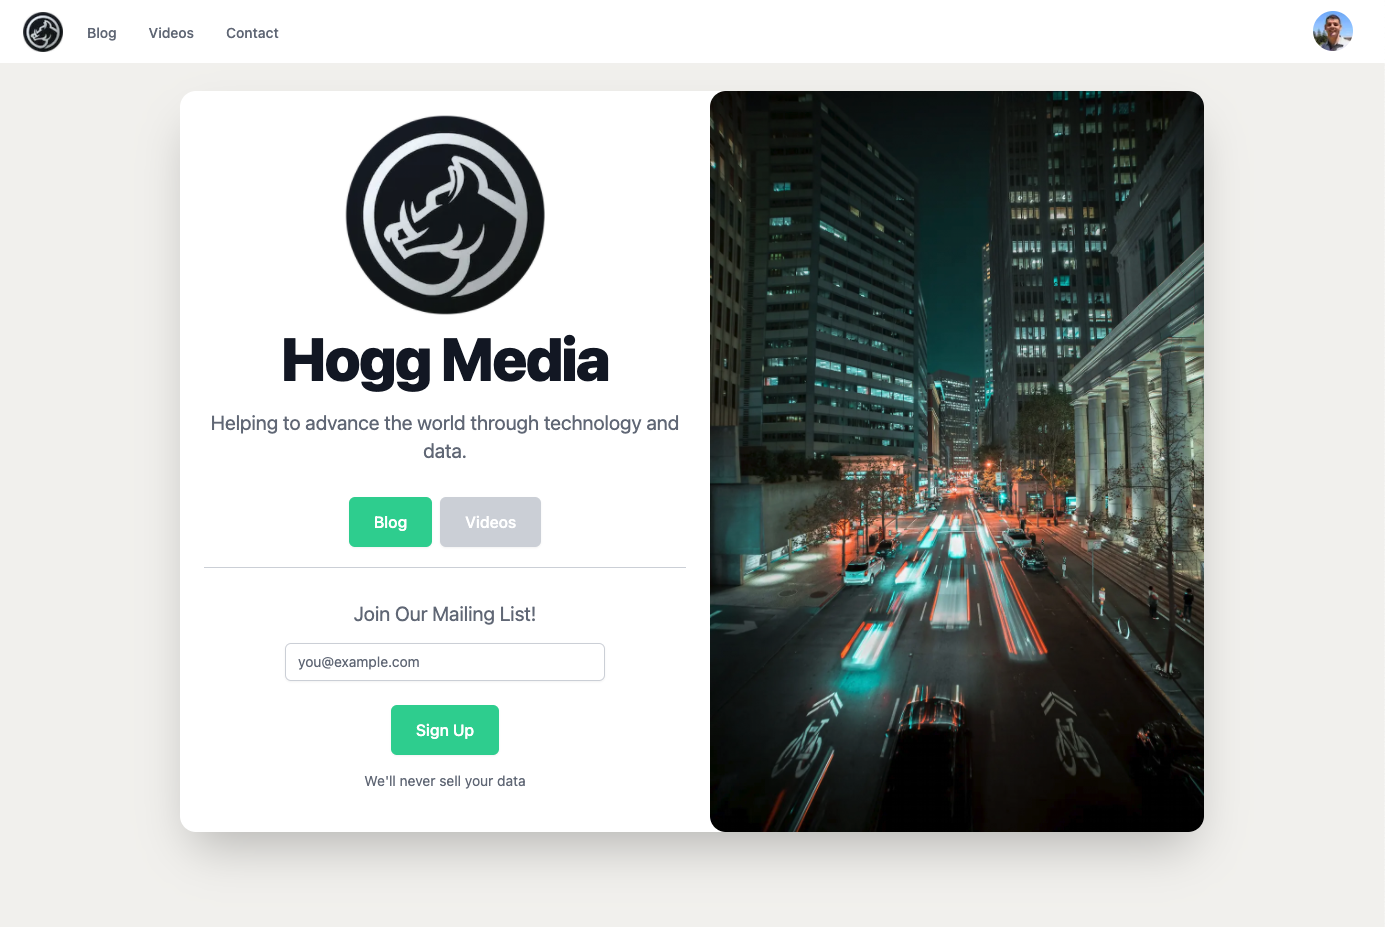
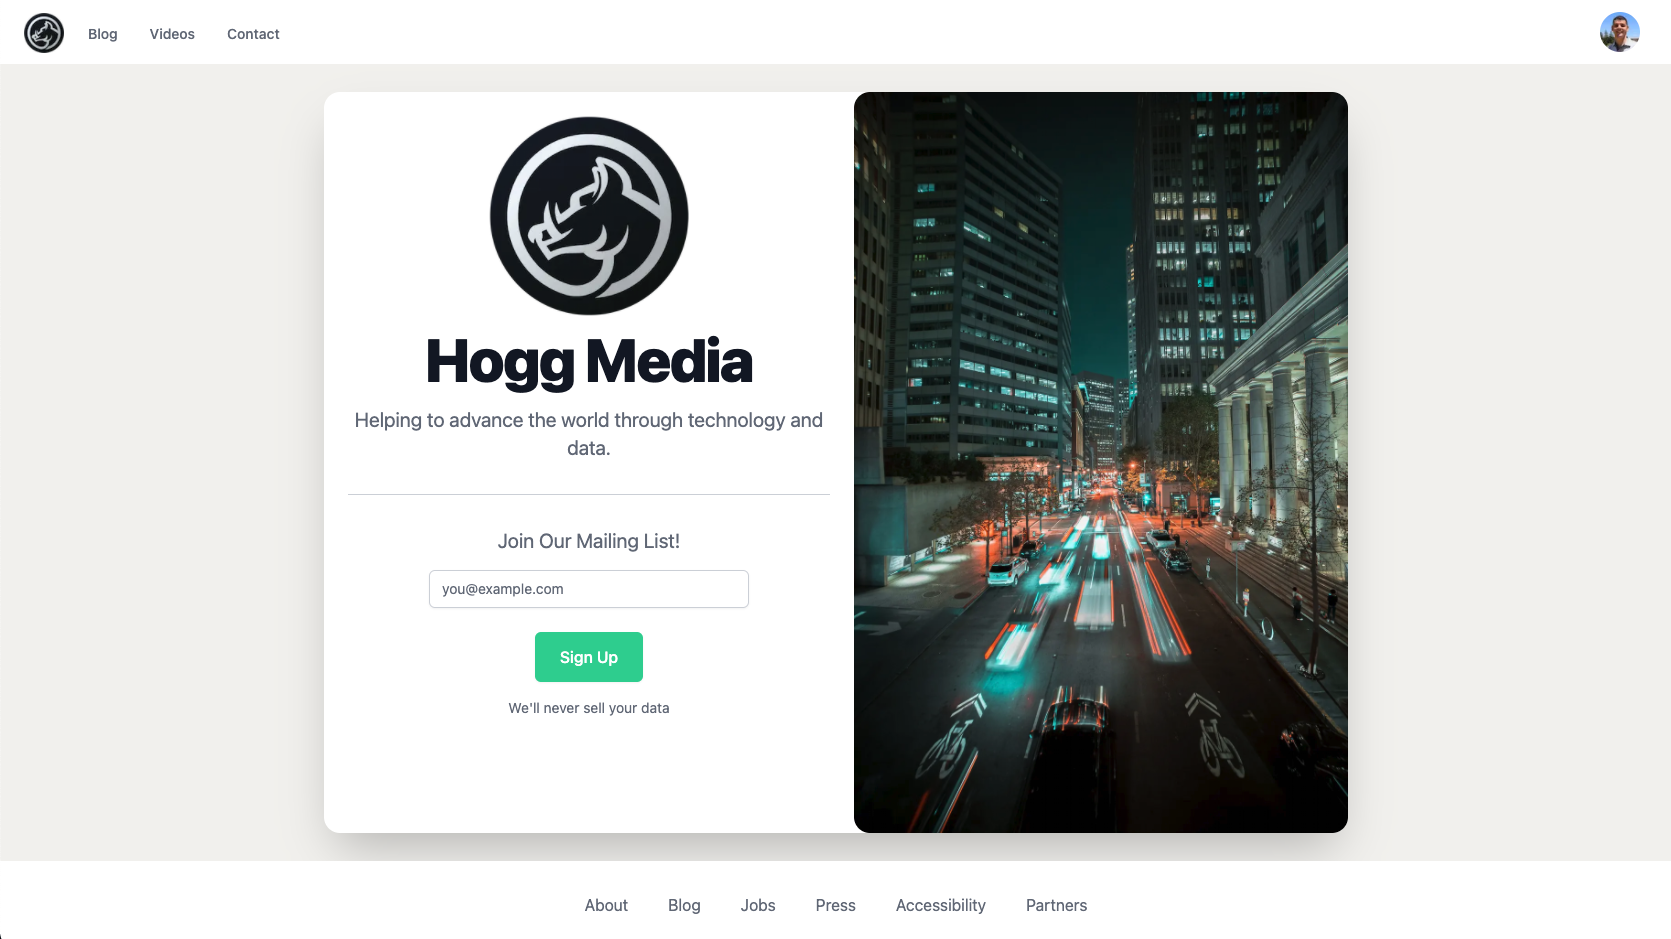
adds footer, style hero

diff --git a/components/Footer.tsx b/components/Footer.tsx
@@ -1,0 +1,113 @@
+/* This example requires Tailwind CSS v2.0+ */
+const navigation = {
+  main: [
+    { name: 'About', href: '#' },
+    { name: 'Blog', href: '#' },
+    { name: 'Jobs', href: '#' },
+    { name: 'Press', href: '#' },
+    { name: 'Accessibility', href: '#' },
+    { name: 'Partners', href: '#' },
+  ],
+  social: [
+    {
+      name: 'Facebook',
+      href: '#',
+      icon: (props) => (
+        <svg fill='currentColor' viewBox='0 0 24 24' {...props}>
+          <path
+            fillRule='evenodd'
+            d='M22 12c0-5.523-4.477-10-10-10S2 6.477 2 12c0 4.991 3.657 9.128 8.438 9.878v-6.987h-2.54V12h2.54V9.797c0-2.506 1.492-3.89 3.777-3.89 1.094 0 2.238.195 2.238.195v2.46h-1.26c-1.243 0-1.63.771-1.63 1.562V12h2.773l-.443 2.89h-2.33v6.988C18.343 21.128 22 16.991 22 12z'
+            clipRule='evenodd'
+          />
+        </svg>
+      ),
+    },
+    {
+      name: 'Instagram',
+      href: '#',
+      icon: (props) => (
+        <svg fill='currentColor' viewBox='0 0 24 24' {...props}>
+          <path
+            fillRule='evenodd'
+            d='M12.315 2c2.43 0 2.784.013 3.808.06 1.064.049 1.791.218 2.427.465a4.902 4.902 0 011.772 1.153 4.902 4.902 0 011.153 1.772c.247.636.416 1.363.465 2.427.048 1.067.06 1.407.06 4.123v.08c0 2.643-.012 2.987-.06 4.043-.049 1.064-.218 1.791-.465 2.427a4.902 4.902 0 01-1.153 1.772 4.902 4.902 0 01-1.772 1.153c-.636.247-1.363.416-2.427.465-1.067.048-1.407.06-4.123.06h-.08c-2.643 0-2.987-.012-4.043-.06-1.064-.049-1.791-.218-2.427-.465a4.902 4.902 0 01-1.772-1.153 4.902 4.902 0 01-1.153-1.772c-.247-.636-.416-1.363-.465-2.427-.047-1.024-.06-1.379-.06-3.808v-.63c0-2.43.013-2.784.06-3.808.049-1.064.218-1.791.465-2.427a4.902 4.902 0 011.153-1.772A4.902 4.902 0 015.45 2.525c.636-.247 1.363-.416 2.427-.465C8.901 2.013 9.256 2 11.685 2h.63zm-.081 1.802h-.468c-2.456 0-2.784.011-3.807.058-.975.045-1.504.207-1.857.344-.467.182-.8.398-1.15.748-.35.35-.566.683-.748 1.15-.137.353-.3.882-.344 1.857-.047 1.023-.058 1.351-.058 3.807v.468c0 2.456.011 2.784.058 3.807.045.975.207 1.504.344 1.857.182.466.399.8.748 1.15.35.35.683.566 1.15.748.353.137.882.3 1.857.344 1.054.048 1.37.058 4.041.058h.08c2.597 0 2.917-.01 3.96-.058.976-.045 1.505-.207 1.858-.344.466-.182.8-.398 1.15-.748.35-.35.566-.683.748-1.15.137-.353.3-.882.344-1.857.048-1.055.058-1.37.058-4.041v-.08c0-2.597-.01-2.917-.058-3.96-.045-.976-.207-1.505-.344-1.858a3.097 3.097 0 00-.748-1.15 3.098 3.098 0 00-1.15-.748c-.353-.137-.882-.3-1.857-.344-1.023-.047-1.351-.058-3.807-.058zM12 6.865a5.135 5.135 0 110 10.27 5.135 5.135 0 010-10.27zm0 1.802a3.333 3.333 0 100 6.666 3.333 3.333 0 000-6.666zm5.338-3.205a1.2 1.2 0 110 2.4 1.2 1.2 0 010-2.4z'
+            clipRule='evenodd'
+          />
+        </svg>
+      ),
+    },
+    {
+      name: 'Twitter',
+      href: '#',
+      icon: (props) => (
+        <svg fill='currentColor' viewBox='0 0 24 24' {...props}>
+          <path d='M8.29 20.251c7.547 0 11.675-6.253 11.675-11.675 0-.178 0-.355-.012-.53A8.348 8.348 0 0022 5.92a8.19 8.19 0 01-2.357.646 4.118 4.118 0 001.804-2.27 8.224 8.224 0 01-2.605.996 4.107 4.107 0 00-6.993 3.743 11.65 11.65 0 01-8.457-4.287 4.106 4.106 0 001.27 5.477A4.072 4.072 0 012.8 9.713v.052a4.105 4.105 0 003.292 4.022 4.095 4.095 0 01-1.853.07 4.108 4.108 0 003.834 2.85A8.233 8.233 0 012 18.407a11.616 11.616 0 006.29 1.84' />
+        </svg>
+      ),
+    },
+    {
+      name: 'GitHub',
+      href: '#',
+      icon: (props) => (
+        <svg fill='currentColor' viewBox='0 0 24 24' {...props}>
+          <path
+            fillRule='evenodd'
+            d='M12 2C6.477 2 2 6.484 2 12.017c0 4.425 2.865 8.18 6.839 9.504.5.092.682-.217.682-.483 0-.237-.008-.868-.013-1.703-2.782.605-3.369-1.343-3.369-1.343-.454-1.158-1.11-1.466-1.11-1.466-.908-.62.069-.608.069-.608 1.003.07 1.531 1.032 1.531 1.032.892 1.53 2.341 1.088 2.91.832.092-.647.35-1.088.636-1.338-2.22-.253-4.555-1.113-4.555-4.951 0-1.093.39-1.988 1.029-2.688-.103-.253-.446-1.272.098-2.65 0 0 .84-.27 2.75 1.026A9.564 9.564 0 0112 6.844c.85.004 1.705.115 2.504.337 1.909-1.296 2.747-1.027 2.747-1.027.546 1.379.202 2.398.1 2.651.64.7 1.028 1.595 1.028 2.688 0 3.848-2.339 4.695-4.566 4.943.359.309.678.92.678 1.855 0 1.338-.012 2.419-.012 2.747 0 .268.18.58.688.482A10.019 10.019 0 0022 12.017C22 6.484 17.522 2 12 2z'
+            clipRule='evenodd'
+          />
+        </svg>
+      ),
+    },
+    {
+      name: 'Dribbble',
+      href: '#',
+      icon: (props) => (
+        <svg fill='currentColor' viewBox='0 0 24 24' {...props}>
+          <path
+            fillRule='evenodd'
+            d='M12 2C6.48 2 2 6.48 2 12s4.48 10 10 10c5.51 0 10-4.48 10-10S17.51 2 12 2zm6.605 4.61a8.502 8.502 0 011.93 5.314c-.281-.054-3.101-.629-5.943-.271-.065-.141-.12-.293-.184-.445a25.416 25.416 0 00-.564-1.236c3.145-1.28 4.577-3.124 4.761-3.362zM12 3.475c2.17 0 4.154.813 5.662 2.148-.152.216-1.443 1.941-4.48 3.08-1.399-2.57-2.95-4.675-3.189-5A8.687 8.687 0 0112 3.475zm-3.633.803a53.896 53.896 0 013.167 4.935c-3.992 1.063-7.517 1.04-7.896 1.04a8.581 8.581 0 014.729-5.975zM3.453 12.01v-.26c.37.01 4.512.065 8.775-1.215.25.477.477.965.694 1.453-.109.033-.228.065-.336.098-4.404 1.42-6.747 5.303-6.942 5.629a8.522 8.522 0 01-2.19-5.705zM12 20.547a8.482 8.482 0 01-5.239-1.8c.152-.315 1.888-3.656 6.703-5.337.022-.01.033-.01.054-.022a35.318 35.318 0 011.823 6.475 8.4 8.4 0 01-3.341.684zm4.761-1.465c-.086-.52-.542-3.015-1.659-6.084 2.679-.423 5.022.271 5.314.369a8.468 8.468 0 01-3.655 5.715z'
+            clipRule='evenodd'
+          />
+        </svg>
+      ),
+    },
+  ],
+}
+
+export default function Footer() {
+  return (
+    <footer className='bg-white'>
+      <div className='max-w-7xl mx-auto py-8 px-4 overflow-hidden sm:px-6 lg:px-8'>
+        <nav
+          className='-mx-5 -my-2 flex flex-wrap justify-center'
+          aria-label='Footer'
+        >
+          {navigation.main.map((item) => (
+            <div key={item.name} className='px-5 py-2'>
+              <a
+                href={item.href}
+                className='text-base text-gray-500 hover:text-gray-900'
+              >
+                {item.name}
+              </a>
+            </div>
+          ))}
+        </nav>
+        <div className='mt-8 flex justify-center space-x-6'>
+          {navigation.social.map((item) => (
+            <a
+              key={item.name}
+              href={item.href}
+              className='text-gray-400 hover:text-gray-500'
+            >
+              <span className='sr-only'>{item.name}</span>
+              <item.icon className='h-6 w-6' aria-hidden='true' />
+            </a>
+          ))}
+        </div>
+        <p className='mt-8 text-center text-base text-gray-400'>
+          &copy; 2021 Hogg Media
+        </p>
+      </div>
+    </footer>
+  )
+}

diff --git a/components/Hero.tsx b/components/Hero.tsx
@@ -10,21 +10,9 @@ const Hero = () => {
         <h1 className='mt-2 text-4xl tracking-tight font-extrabold text-gray-900 sm:text-5xl md:text-6xl'>
           Hogg Media
         </h1>
-        <p className='mt-3 max-w-md mx-auto text-base text-gray-500 sm:text-lg md:mt-5 md:text-xl md:max-w-3xl'>
+        <p className='mt-4 mb-8 max-w-md mx-auto text-base text-gray-500 sm:text-lg md:text-xl md:max-w-3xl'>
           Helping to advance the world through technology and data.
         </p>
-        <div className='my-5 space-x-2 max-w-md mx-auto sm:flex sm:justify-center md:mt-8'>
-          <Link href='/blog'>
-            <a className='inline-flex items-center px-6 py-3 border border-transparent text-base font-medium rounded-md shadow-sm text-white bg-green-400 hover:bg-green-500 focus:outline-none focus:ring-2 focus:ring-offset-2 focus:ring-green-500'>
-              Blog
-            </a>
-          </Link>
-          <Link href='/videos'>
-            <a className='inline-flex items-center px-6 py-3 border border-transparent text-base font-medium rounded-md shadow-sm text-white bg-gray-300 hover:bg-gray-400 focus:outline-none focus:ring-2 focus:ring-offset-2 focus:ring-green-500'>
-              Videos
-            </a>
-          </Link>
-        </div>
         <div className='w-full border-t border-gray-300' />
         <MailingList />
       </div>

diff --git a/components/Layout.tsx b/components/Layout.tsx
@@ -1,6 +1,7 @@
 import React, { ReactNode } from 'react'
 import Meta from './Meta'
 import Navbar from './Navbar'
+import Footer from './Footer'
 
 type Props = {
   children?: ReactNode
@@ -13,6 +14,7 @@ const Layout = ({ children, title, description }: Props) => (
     <Meta title={title} description={description} />
     <Navbar />
     <main className='container mx-auto my-7'>{children}</main>
+    <Footer />
   </div>
 )
 

diff --git a/components/MailingList.tsx b/components/MailingList.tsx
@@ -1,7 +1,7 @@
 const EmailInput = () => {
   return (
     <div className='mt-8'>
-      <p className='mt-3 max-w-md mx-auto text-base text-gray-500 sm:text-lg md:mt-5 md:text-xl md:max-w-3xl'>
+      <p className='max-w-md mx-auto text-base text-gray-500 sm:text-lg md:mt-5 md:text-xl md:max-w-3xl'>
         Join Our Mailing List!
       </p>
       <div className='flex justify-center mb-4'>
